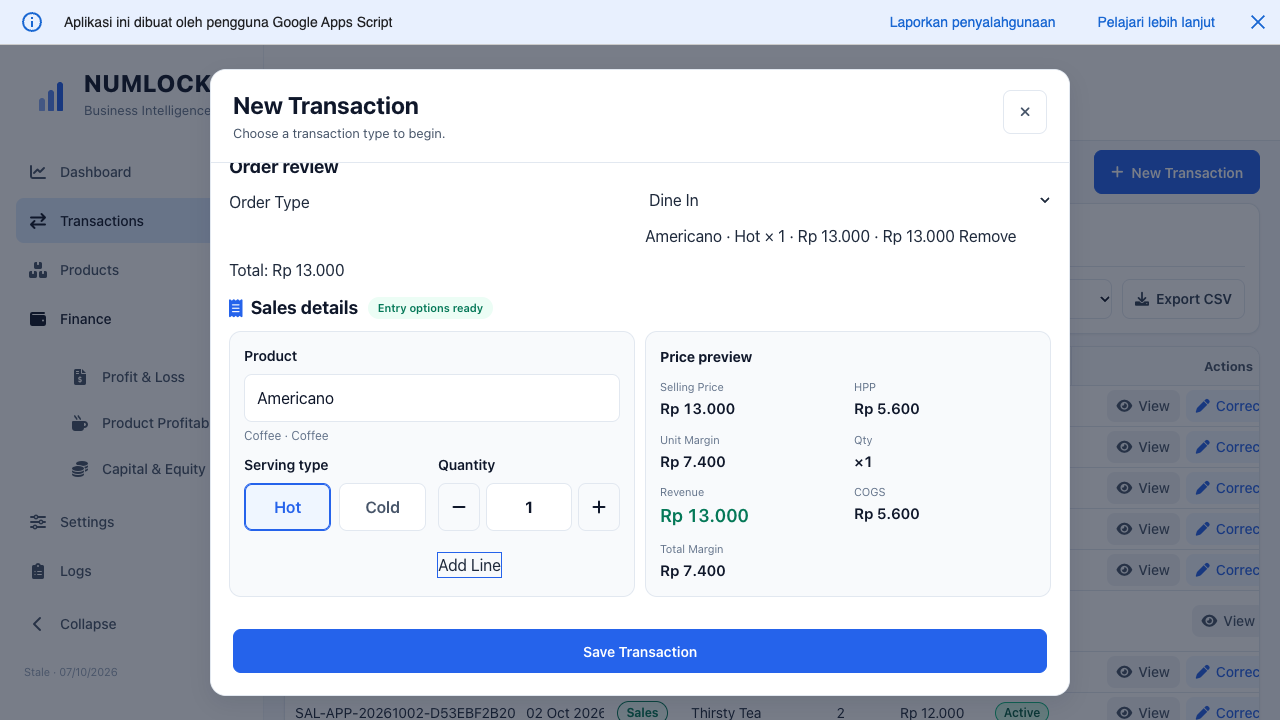
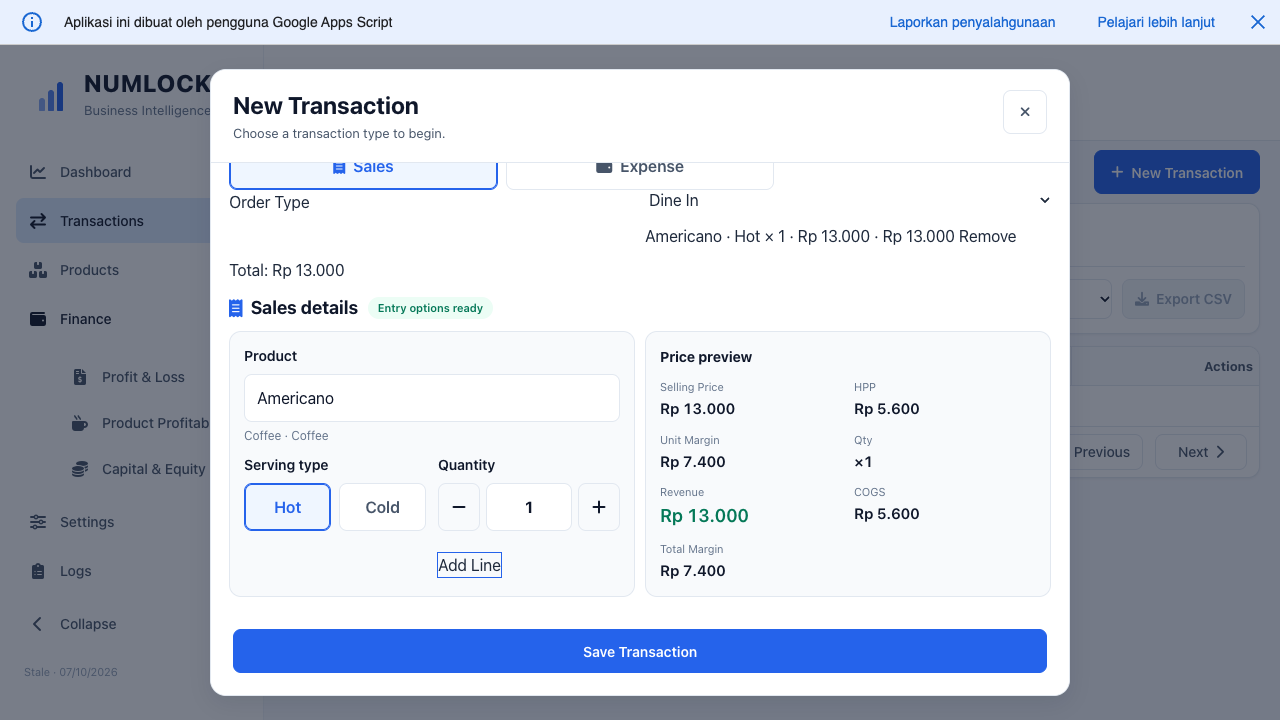
U10D evidence: final push 709, canonical 708→709, fresh-session 27/27, waiting for first real event

diff --git a/docs/SALES-RECOGNITION-V2-U10-ACTIVATION-FIRST-EVENT.md b/docs/SALES-RECOGNITION-V2-U10-ACTIVATION-FIRST-EVENT.md
@@ -3,9 +3,13 @@
 TASK_ID: U10A-ACTIVATION-CLOSURE-01 (successor to U10-ACTIVATION-FIRST-EVENT-01) · Complexity L3 · Operational risk R4 · Reasoning high
 Backend/model `9router/numlock-explore-free` (numlock-critical, executed in-session).
 
-**STATUS: `ACTIVATED_WAITING_FOR_FIRST_REAL_EVENT` — production
-`SALES_RECOGNITION_V2` is `PRODUCTION_ACTIVE` (activation accepted); first
-genuine Sale not yet available.**
+**STATUS: `ACTIVE_UI_ACCEPTED_WAITING_FOR_FIRST_REAL_EVENT` — canonical
+deployment **709** (display fix `ad4857f`) serves the ACTIVE V2 operator
+surface; fresh-session production acceptance **27/27 PASS**; first genuine
+Sale not yet available. Activation identity unchanged
+(`b4791011-120e-4985-92da-a61c6311060c`, `2026-10-08T18:59:50.540Z`).**
+(U10A activation acceptance `ACTIVATED_WAITING_FOR_FIRST_REAL_EVENT` remains
+the activation-stage result.)
 
 ### 0.1 Activation-writer closure (implementation)
 
@@ -737,3 +741,103 @@ in this session and none was fabricated. No Treasury change.
 3. Re-run `tests/browser/sales-v2-u10c-fresh-session.js`; all 27 checks must
    pass, then perform exactly one genuine first V2 Sale and run U10
    first-event acceptance.
+
+---
+
+## U10D — final operator-surface deployment (TASK_ID `U10D-FINAL-DEPLOY-01`)
+
+Owner authorization consumed: ONE final deployment cycle — exactly one fourth
+`clasp push --force`, exactly one immutable version, canonical 708 → that
+version, read-only verification, fresh-session acceptance, first genuine Sale
+only if 27/27.
+
+### D1. Baseline (measured)
+
+- HEAD `e2d358a`, worktree clean; ancestry includes `7fefacc` (deployed U10C),
+  `ad4857f` (undeployed display fix), `e2d358a` (evidence) — all verified.
+- Display fix present at HEAD and *only* that fix: `195.View.Transactions.Actions.html`
+  `applySalesV2OperatorSurface_` sets `element.style.display = element.hidden ? "none" : ""`
+  (heading + payment/fulfillment), plus test `AUD-4b`. No other runtime delta.
+
+### D2. Local pre-deploy gates (MEASURED)
+
+| gate | result |
+| --- | --- |
+| U10C/U10D operator-surface harness (`sales-v2-u10c-operator-surface.js`, incl. `AUD-4b`) | **61 / 61 PASS** |
+| full `node _test_runner.js` | **97 PASS / 0 FAIL** (baseline 97/0 preserved) |
+| syntax (`node --check` on all root `.js`) | PASS |
+| `git diff --check` | clean |
+| pre-deploy production `sales-v2-u10c-fresh-session.js` | **25 / 27** — exactly `A1-c` + `A10-a` (the undeployed heading defect), 0 writer dispatch, no other residual |
+
+Note on gate semantics: the fresh-session suite targets the canonical `/exec`,
+so pre-deploy it can only measure the *shipped* artifact — it reproduced the
+25/27 U10C residual with no new failure. The binding 27/27 target was applied
+to the post-deployment run (D5), which is the acceptance gate before any Sale.
+
+### D3. Manifest gate (measured)
+
+- `clasp status` → **68 tracked runtime files**, identical before/after push
+  (`diff` clean); `tests/`, `docs/`, `AGENTS.md` etc. are untracked by clasp.
+- `git diff --name-only 7fefacc -- <68 tracked files>` →
+  **only `195.View.Transactions.Actions.html`**. Difference vs v708 is
+  explained entirely by `ad4857f`. No docs/tests in the runtime package.
+
+### D4. Fourth/final push + immutable version + canonical update (measured)
+
+- **`clasp push --force` → success path** (full `└─` 68-file list emitted);
+  this is the FOURTH and FINAL push for U10. No fifth push exists.
+- `clasp update-deployment AKfycbxyll…ZXAzPkkSEhbwZKxkX6q -d "U10D final
+  display fix ad4857f: legacy Order review heading suppressed on ACTIVE"` →
+  `Redeployed … @709` (single call = one new immutable version + existing
+  deployment updated; no `clasp version`, no second deployment).
+- Readback: `clasp deployments` → still exactly **2** deployments; canonical
+  **@709** (was @708), `@HEAD` untouched; `clasp versions` → **705/706/707/708
+  intact**, only 709 added.
+
+### D5. Deployment readback + config stability (measured, read-only)
+
+- Canonical `/exec` GET → HTTP 200, 1,060,648 bytes. Served artifact contains
+  the display fix (`element.style.display \x3d element.hidden ? \x22none\x22 : \x22\x22`),
+  `salesV2ClientModeState_`, `applySalesV2OperatorSurface_`,
+  `isValidActiveSalesEntry_`, `operationalOrderLookupControl`,
+  `showSalesV2OrderSuccess_`, `salesRecognitionV2Activate`; **absent**
+  `var validSales = false`. Push manifest includes `97D` and `97E`.
+- No activation/config file changed (manifest delta = `195` only) and **no
+  config write was performed**. Runtime mode re-measured fresh post-deploy:
+  `salesV2ClientModeState_ = {status:"READY", mode:"ACTIVE"}`,
+  `authority.salesV2Mode = "ACTIVE"`.
+- Limitation (explicit): direct ActivationID/`T` read stays
+  **`BLOCKED_PERMISSION`** (Execution API `403 PERMISSION_DENIED` measured in
+  U10C, known-denied → not retried). Identity therefore evidenced
+  structurally (97E untouched, zero config mutation) + runtime ACTIVE, not by
+  a fresh direct read.
+
+### D6. Fresh-session production acceptance (MEASURED)
+
+`tests/browser/sales-v2-u10c-fresh-session.js` on canonical `/exec`, genuinely
+fresh context, post-709: **27 / 27 PASS**, `FRESH_SESSION_UI_ACCEPTED`.
+ACTIVE mode; `Order review` heading invisible; Save Order / Continue existing
+order / Find Order / No open orders invisible; payment and fulfillment
+controls absent; Order Type, ProductVariant, qty, Add Line → one draft line,
+total displayed; exactly one `Save Transaction`, enabled after the valid line;
+**0 writer requests** (9 non-writer POSTs: authority/options/pricing only);
+stopped before Save by contract (`STOPPED_BEFORE_SAVE_BY_CONTRACT`).
+Evidence: `docs/evidence/u10c-fresh-session/{results.json,active-surface-before-save.png}`.
+
+### D7. First genuine Sale + first-event acceptance
+
+No genuine customer order was available in this session, so **no Sale was
+created, no Save was clicked, no writer ran** — nothing fabricated, no
+payment, no fulfillment, no Treasury action.
+
+`U10_SALES_V2_ACTIVATION_FIRST_EVENT =
+ACTIVE_UI_ACCEPTED_WAITING_FOR_FIRST_REAL_EVENT`
+
+### D8. U10D status / next recommendation
+
+Status `ACTIVE_UI_ACCEPTED_WAITING_FOR_FIRST_REAL_EVENT`. Next: the next
+genuine customer order performs exactly one V2 Sale, then run the U10
+first-event acceptance (chain, Order/lines, RecognitionEvent, 1030/4000
+journal, Policy C, +0 Payments/Settlements/fulfillment/InventoryLedger, single
+audit, U3/U4/U5 parity, protected delta). No automatic Treasury; 1030 stays
+uncleared by design.
